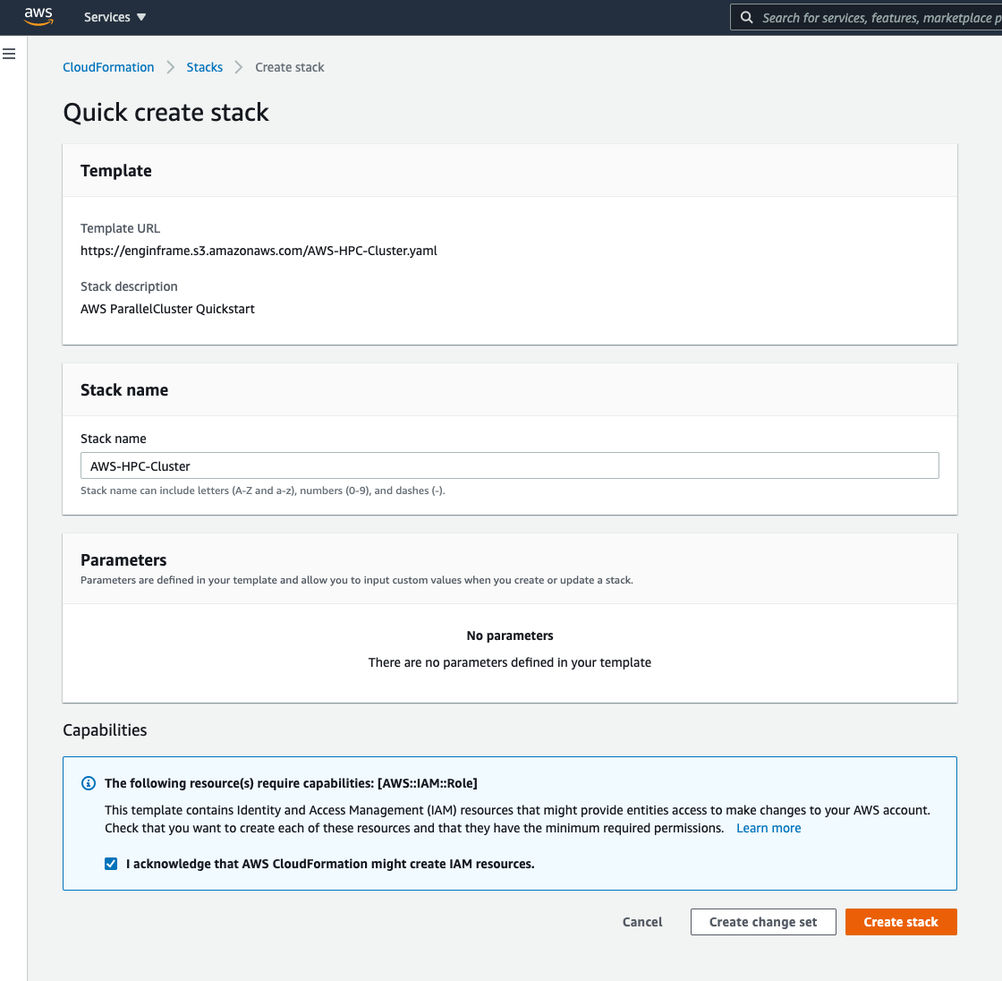
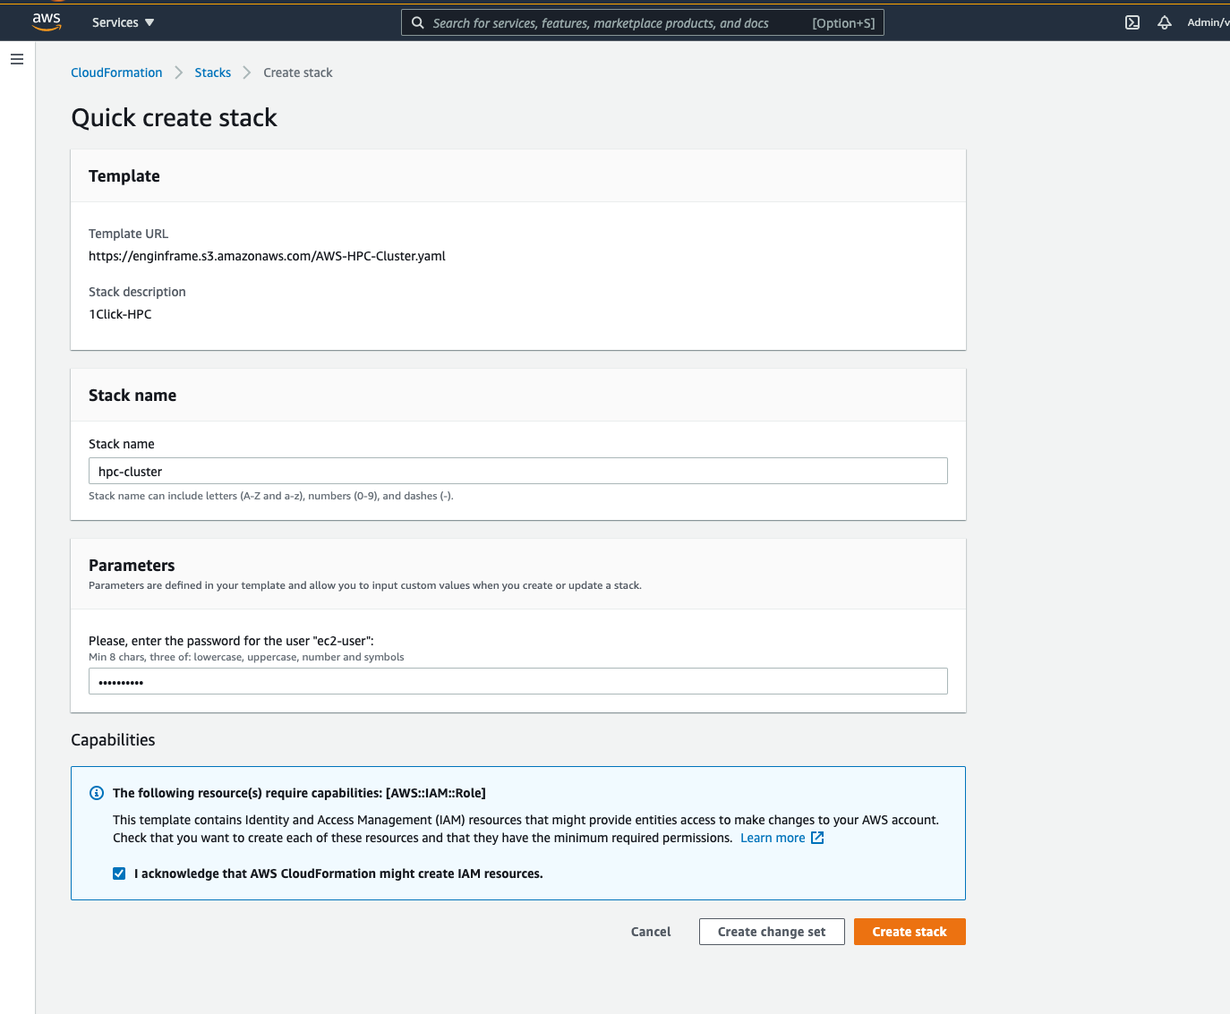
Clean up the docs.

diff --git a/docs/README.md b/docs/README.md
@@ -1,108 +1,19 @@
-# 1Click-HPC
-This repository gather some <a href=https://docs.aws.amazon.com/parallelcluster/latest/ug/what-is-aws-parallelcluster.html><b>ParallelCluster</b></a> post-install samples for common HPC-related operations.
-<br>Primary ParallelCluster [post.install](https://github.com/aws-samples/1click-hpc/blob/main/scripts/post.install.sh) sets the environment and launches secondary scripts according to their naming convention.
-<br>All those scripts are automatically downlaoded from thie [Git-Hub repo](https://github.com/aws-samples/1click-hpc) .
-<br>In case a deeper customization of the scripts is needed, the scripts can be stored in an S3 bucket. See more details in the Requirements section below.
-
-At the moment we are including:
-1. *install.ldap.server.master.sh*
-    <br>Script installing OpenLDAP server on the head node.
-2.  *install.ldap.client.master.sh*
-    <br>Script installing OpenLDAP client on the head node.
-3.  *install.ldap.client.compute.sh*
-    <br>Script installing OpenLDAP client on the compute nodes.
-4. *install.enginframe.master.sh*
-    <br>Script installing <a href="https://www.nice-software.com"><b>NICE EnginFrame</b></a> HPC portal on the head node.
-5. *install.dcv.broker.master.sh*
-    <br>Script installing <a href="https://docs.aws.amazon.com/dcv/latest/sm-admin/what-is-sm.html"><b>DCV Session Manager Broker</b></a> on the head node.
-6. *install.dcv.Slurm.master.sh*
-    <br>Alternative to the previous, this script enables support for DCV sessions using Slurm instead of the DCV Session Manager Broker.
-7. *install.dcv-server.compute.sh*
-    <br>Script Configuring <a href="https://aws.amazon.com/hpc/dcv/"><b>DCV Server</b></a> on compute nodes.
-8. *install.dcv-sm-agent.compute.sh*
-    <br>Script installing and configuring <a href="https://docs.aws.amazon.com/dcv/latest/sm-admin/agent.html"><b>DCV Session Manager Agent</b></a>
-9. *install.dcv.slurm.compute.sh*
-    <br>Alternative to the previous, this script enables support for DCV sessions using Slurm instead of the DCV Session Manager Agent.
-
-<details>
-<summary>Software and Services used (Click to expand)</summary>
-<b>AWS ParallelCluster</b> is an open source cluster management tool that simplifies deploying and managing HPC clusters with Amazon FSx for Lustre, EFA, a variety of job schedulers, and the MPI library of your choice. AWS ParallelCluster simplifies cluster orchestration on AWS so that HPC environments become easy-to-use even for if you’re new to the cloud. <br/>
-<br/>
-<b>NICE EnginFrame</b> is the leading grid-enabled application portal for user-friendly submission,control and monitoring of HPC jobs and interactive remote sessions.It includes sophisticated data management for all stages of HPC job lifetime and is integrated with most popular job schedulers and middleware tools to submit, monitor, and manage jobs.<br/>
-<br/>
-<b>NICE DCV</b>  is a remote visualization technology that enables users to securely connect to graphic-intensive 3D applications hosted on a remote, high-performance server. With NICE DCV, you can make a server's high-performance graphics processing capabilities available to multiple remote users by creating secure client sessions. <br/>
-<br/>
-<b>NICE DCV Session Manager</b> is set of two software packages (an Agent and a Broker) and an application programming interface (API) that makes it easy for developers and independent software vendors (ISVs) to build front-end applications that programmatically create and manage the lifecycle of NICE DCV sessions across a fleet of NICE DCV servers. <br/>
-</details>
-
-# 1-Click Deployment
-For Users who have no experience with AWS and no experience building an HPC Cluster, here an easy way to start.
-
-#### Step 1
-Click the link below corresponding to your preferred [AWS Region](https://aws.amazon.com/about-aws/global-infrastructure/regions_az/) .
-
-| Region       | Launch                                                                                                                                                                                                                                                                                                             | 
-|--------------|--------------------------------------------------------------------------------------------------------------------------------------------------------------------------------------------------------------------------------------------------------------------------------------------------------------------|
-| N. Virginia (us-east-1)   | [![Launch](https://samdengler.github.io/cloudformation-launch-stack-button-svg/images/us-east-1.svg)](https://console.aws.amazon.com/cloudformation/home?region=us-east-1#/stacks/quickcreate?templateUrl=https%3A%2F%2Fenginframe.s3.amazonaws.com%2FAWS-HPC-Cluster.yaml&stackName=hpc-cluster) |
-| Ohio (us-east-2)   | [![Launch](https://samdengler.github.io/cloudformation-launch-stack-button-svg/images/us-east-2.svg)](https://console.aws.amazon.com/cloudformation/home?region=us-east-2#/stacks/quickcreate?templateUrl=https%3A%2F%2Fenginframe.s3.amazonaws.com%2FAWS-HPC-Cluster.yaml&stackName=hpc-cluster) |
-| N. California (us-west-1)   | [![Launch](https://samdengler.github.io/cloudformation-launch-stack-button-svg/images/us-west-1.svg)](https://console.aws.amazon.com/cloudformation/home?region=us-west-1#/stacks/quickcreate?templateUrl=https%3A%2F%2Fenginframe.s3.amazonaws.com%2FAWS-HPC-Cluster.yaml&stackName=hpc-cluster) |
-| Oregon (us-west-2)   | [![Launch](https://samdengler.github.io/cloudformation-launch-stack-button-svg/images/us-west-2.svg)](https://console.aws.amazon.com/cloudformation/home?region=us-west-2#/stacks/quickcreate?templateUrl=https%3A%2F%2Fenginframe.s3.amazonaws.com%2FAWS-HPC-Cluster.yaml&stackName=hpc-cluster) |
-| Frankfurt (eu-central-1)   | [![Launch](https://samdengler.github.io/cloudformation-launch-stack-button-svg/images/eu-central-1.svg)](https://console.aws.amazon.com/cloudformation/home?region=eu-central-1#/stacks/quickcreate?templateUrl=https%3A%2F%2Fenginframe.s3.amazonaws.com%2FAWS-HPC-Cluster.yaml&stackName=hpc-cluster) |
-| Ireland (eu-west-1)   | [![Launch](https://samdengler.github.io/cloudformation-launch-stack-button-svg/images/eu-west-1.svg)](https://console.aws.amazon.com/cloudformation/home?region=eu-west-1#/stacks/quickcreate?templateUrl=https%3A%2F%2Fenginframe.s3.amazonaws.com%2FAWS-HPC-Cluster.yaml&stackName=hpc-cluster) |
-| Stockholm (eu-north-1)   | [![Launch](https://samdengler.github.io/cloudformation-launch-stack-button-svg/images/eu-north-1.svg)](https://console.aws.amazon.com/cloudformation/home?region=eu-north-1#/stacks/quickcreate?templateUrl=https%3A%2F%2Fenginframe.s3.amazonaws.com%2FAWS-HPC-Cluster.yaml&stackName=hpc-cluster) |
-| Tokio (ap-northeast-1)   | [![Launch](https://samdengler.github.io/cloudformation-launch-stack-button-svg/images/ap-northeast-1.svg)](https://console.aws.amazon.com/cloudformation/home?region=ap-northeast-1#/stacks/quickcreate?templateUrl=https%3A%2F%2Fenginframe.s3.amazonaws.com%2FAWS-HPC-Cluster.yaml&stackName=hpc-cluster) |
-| Hong Kong (ap-east-1)   | [![Launch](https://samdengler.github.io/cloudformation-launch-stack-button-svg/images/ap-east-1.svg)](https://console.aws.amazon.com/cloudformation/home?region=ap-east-1#/stacks/quickcreate?templateUrl=https%3A%2F%2Fenginframe.s3.amazonaws.com%2FAWS-HPC-Cluster.yaml&stackName=hpc-cluster) |
-
-
-
-#### Step 2
-1. Just change the "Stack Name" as you like (please do not user capital letters) 
-2. Check the checkbox to acknowledge the IAM resources creations.
-3. Click the "Create Stack" botton.
-</br>
-
-![Step2](docs/step2.png?raw=true "Step 2")
-
-#### Step 3
-1. Wait until all the resources are created 
-2. Click on the "Stack Name"
-</br>
-
-![Step3](docs/step3.png?raw=true "Step 3")
-
-#### Step 4
-1. Go to the "outputs" tab
-2. Click the "EnginFrameURL" to access your HPC Clsuter using the EnginFrame portal.
-3. Alternatively, Click the "Cloud9URL" if you wish to connect to your Cloud9 Instance and then ssh into your Cluster form there.
-</br>
-
-![Step4](docs/step4.png?raw=true "Step 4")
-
-#### Step 5
-If you haven't customize the EnginFrame configuration, you can use the default Username and Password.
-```Username: ec2-user```
-</br>
-```Password: Change_this!```
-</br>
-<blockquote id='PfT9CA19ub2'><b>Note:</b> Please make sure you the default password right after the first login.</blockquote>
-</br>
-
-![Step5](docs/step5.png?raw=true "Step 5")
-
 # QuickStart
-Create a new cluster using your configuration file and just add the following parameters, everything will be installed and configured automatically.<br/>
+In case you do not want to use our 1Click-HPC Cloudformation template, but you still want to build your cluster with all the components and modules available in thie reporitory, you can follow the instruction below to configure your ParallelCluster configuration file. 
+You can create a new cluster using your existing configuration file and just add the following parameters, everything will be installed and configured automatically.<br/>
 If this is your first approach to AWS ParallelCluster, either go back to the section above or follow all the steps of our [Workshop](https://www.hpcworkshops.com/03-hpc-aws-parallelcluster-workshop.html) and include the following configuration:
 ```ini
 [cluster yourcluster]
 ...
 post_install = https://raw.githubusercontent.com/aws-samples/1click-hpc/main/scripts/post.install.sh
-post_install_args = "10.install.enginframe.master.sh 20.install.dcv.slurm.master.sh 25.install.dcv-server.compute.sh 35.install.dcv.slurm.compute.sh"
+post_install_args = "05.install.ldap.server.master.sh 06.install.ldap.client.compute.sh 06.install.ldap.client.master.sh 10.install.enginframe.master.sh 11.install.ldap.enginframe.master.sh 20.install.dcv.slurm.master.sh 25.install.dcv-server.compute.sh 35.install.dcv.slurm.compute.sh"
+extra_json = {"post_install":{"enginframe":{"ef_admin_pass":"Put_Your_Password_HERE"}}}
 tags = {"EnginFrame" : "true"}
 ...
 ```
 <blockquote id='PfT9CA19ub2'><b>Note:</b> You need to specify a custom Security Group (that allows inbound connection to the port 8443) defined as <b>`additional_sg`</b> parameter in the `[VPC]` section of your AWS ParallelCluster config file.</blockquote>
 
-# (Optional) Custom QuickStart
+# (Optional) QuickStart parameters customization
 In addition to the Quickstart deployment, there are a few parameters that you can optionally define to customize the components installed. <br/>
 These parameters are defined as part of the <b> `extra_json` </b> [parameter](https://docs.aws.amazon.com/parallelcluster/latest/ug/cluster-definition.html#extra-json) in the [cluster section](https://docs.aws.amazon.com/parallelcluster/latest/ug/cluster-definition.html) of the AWS ParallelCluster configuration file.
 If the <b> `extra_json` </b> is not specified, all the components will be installed using the default values. <br/> 
@@ -152,11 +63,20 @@ tr -d '\n' < your_extra.json
 { "post_install": { "enginframe": { "nice_root": "/fsx/nice", "ef_admin": "ec2-user", "ef_conf_root": "/fsx/nice/enginframe/conf", "ef_data_root": "/fsx/nice/enginframe/data", "ef_spooler": "/fsx/nice/enginframe/spoolers", "ef_repository": "/fsx/nice/enginframe/repository", "ef_admin_pass": "Change_this!" }, "dcvsm": { "agent_broker_port": 8445, "broker_ca": "/home/ec2-user/dcvsmbroker_ca.pem", "client_broker_port": 8446 }, "dcv": { "dcv_queue_keyword": "dcv" }}}
 ```
 
-# (Optional) Script customization
+# (Optional) Launch script customization
 An additional way to further customize the installation and configuration of your components is by downlaoding the scripts locally, modify them, and put them back onto S3.<br/>
-In this case, your AWS ParallelCluster configuration files have the following paramteres:
+```bash
+export S3_BUCKET=<YOUR_S3_BUCKET>
+
+aws s3 cp --recursive 1click-hpc/scripts/         s3://$S3_BUCKET/scripts/
+aws s3 cp --recursive 1click-hpc/packages/        s3://$S3_BUCKET/packages/
+aws s3 cp --recursive 1click-hpc/parallelcluster/ s3://$S3_BUCKET/parallelcluster/
+aws s3 cp --recursive 1click-hpc/enginframe/      s3://$S3_BUCKET/enginframe/
+```
+
+In this case, your AWS ParallelCluster configuration file has the following parameteres:
 ```ini
-post_install = s3://<your_bucket>/scripts/post.install.sh
+post_install = s3://<YOUR_S3_BUCKET>/scripts/post.install.sh
 post_install_args = "01.install.enginframe.master.sh 03.install.dcv.slurm.master.sh 04.install.dcv-server.compute.sh 06.install.dcv.slurm.compute.sh"
 ```
 
@@ -175,78 +95,8 @@ To perform a successful installation of EnginFrame and DCV Sesssion Manager brok
 <br/></li><li id='PfT9CAvkZ0P' class=''><b>ParallelCluster configuration including <code>post_install</code> and <code>post_install_args</code> </b>as mentioned above and described later with more details
 <br/></li><li id='PfT9CASJBtH' class=''><b>(optionally) EnginFrame and DCV Session Manager packages</b>, available online from <a href="https://download.enginframe.com/">https://download.enginframe.com</a>. Having them in the bucket avoids the need for outgoing internet access for your ParallelCluster master to download them. In this article I’ll instead have them copied into my target S3 bucket. My scripts will copy them from S3 to the master node.
 <br/></li></ul></div><blockquote id='PfT9CA2OdPe'><b>Note:</b> neither EnginFrame 2020 or DCV Session Manager Broker need a license if running on EC2 instances. For more details please refer to their documentation.</blockquote>
-<h2 id='PfT9CAAjFfa'>Step 1. Review and customize post-install scripts</h2>
-GitHub code repository for this article contains 3 main scripts:<br/>
-<div style="" class="" data-section-style='6'><ul id='PfT9CAcv9OY'><li id='PfT9CAqZmEr' class='' value='1'><i><b>post.install.sh </b></i><br>Primary post-install script, preparing the environment and launching secondary scripts in alphanumerical order
-<br/></li><li id='PfT9CAcXiVn' class=''><b><i>01.install.enginframe.master.sh</i></b><br>Secondary script installing EnginFrame<br>Most installation parameters are up to <b><i>efinstall.config</i></b> script
-<br/></li><li id='PfT9CAvmQMT' class=''><b><i>02.install.dcv.broker.master.sh</i></b><br>Secondary script installing DCV Session Manager Broker
-<br/></li></ul></div>Secondary scripts follow this naming convention: they <b>start with a number that will set their execution order</b>, then they <b>describe their purpose</b>, and finally <b>define the node type in which they should be executed</b> (master or compute) as a last argument, just before the extension, e.g.:<br/>
-<pre id='PfT9CA3RKNQ'><b><span bgcolor="#d7f7d4" style="background-color:#d7f7d4">01</span>.<span bgcolor="#ffcdcc" style="background-color:#ffcdcc">install</span><span bgcolor="#ffcdcc" style="background-color:#ffcdcc">.enginframe</span>.<span bgcolor="#ffe600" style="background-color:#ffe600">master</span>.<span bgcolor="#9ee9fa" style="background-color:#9ee9fa">sh</span></b><br><span bgcolor="#d7f7d4" style="background-color:#d7f7d4">|</span>  <span bgcolor="#ffcdcc" style="background-color:#ffcdcc">|</span>                  <span bgcolor="#ffe600" style="background-color:#ffe600">|</span>      <span bgcolor="#9ee9fa" style="background-color:#9ee9fa">|</span>     <br><span bgcolor="#d7f7d4" style="background-color:#d7f7d4">|</span>  <span bgcolor="#ffcdcc" style="background-color:#ffcdcc">|</span>                  <span bgcolor="#ffe600" style="background-color:#ffe600">|</span>      <span bgcolor="#9ee9fa" style="background-color:#9ee9fa">file extension</span><br><span bgcolor="#d7f7d4" style="background-color:#d7f7d4">|</span>  <span bgcolor="#ffcdcc" style="background-color:#ffcdcc">purpose</span>            <code><span bgcolor="#ffe600" style="background-color:#ffe600">|</span></code><br><span bgcolor="#d7f7d4" style="background-color:#d7f7d4">|</span>                     <span bgcolor="#ffe600" style="background-color:#ffe600">to be run on master </span><span bgcolor="#ffe600" style="background-color:#ffe600">or compute nodes</span><br><span bgcolor="#d7f7d4" style="background-color:#d7f7d4">execution order</span></pre>
-While main post-install script <i>post.install.sh</i> just sets environment variables and launches secondary scripts, you might want to check the secondary ones: <i>01.install.enginframe.master.sh</i> installing EnginFrame and <i>02.install.dcv.broker.master.sh </i>installing DCV Session Manager Broker.<br/>
-<br/>
-Crucial parameters are set in ParallelCluster configuration file, and some EnginFrame settings are defined into <i>efinstall.config</i> file. All these files should be checked to reflect what you have in mind.<br/>
-<br/>
-You can also add further custom scripts, in the same folder, following the naming convention stated above. An example could be installing an HPC application locally on a compute node, or in the master shared folder.<br/>
-<br/>
-Each script sources <b><i>/etc/parallelcluster/cfnconfig</i></b> to get the required information about current cluster settings, AWS resources involved and node type. Specifically, cfnconfig defines <br/>
-<div style="" data-section-style='5' class=""><ul id='PfT9CAvyMeE'><li id='PfT9CADVG1H' class='' value='1'><code>cfn_node_type=<b>MasterServer</b></code> if current node is the master node 
-<br/></li><li id='PfT9CA7EIAI' class=''><code>cfn_node_type=<b>ComputeFleet</b></code> if current node is a compute node
-<br/></li></ul></div><blockquote id='PfT9CAB7egs'><b>Note:</b> More details on each scripts are provided in <b>Post-install scripts details</b> section following the <b>Walktrough</b>.</blockquote>
-<h2 id='PfT9CA9XRzC'>Step 2. <b>Prepare your S3 bucket</b> </h2>
-I create an S3 Bucket e.g. <code>mys3bucket</code>, with the following structure and contents in a prefix of choice (Packages names and version numbers may vary):<br/>
-<pre id='PfT9CAWCFW4'>packages<br>├── NICE-GPG-KEY.conf<br>├── efinstall.config<br>├── enginframe-2020.0-r58.jar<br>└── nice-dcv-session-manager-broker-2020.2.78-1.el7.noarch.rpm<br>scripts<br>├── 01.install.enginframe.master.sh<br>├── 02.install.dcv.broker.master.sh<br>└── post.install.sh</pre>
-<h2 id='PfT9CAo7SeV'><b>Step 3. Modify or create your ParallelCluster configuration file</b></h2>
-As mentioned, the only settings required by my scripts are the following in the <code><b>[cluster]</b></code> section:  <code>post_install</code>, <code>post_install_args</code> and <code>s3_read_resource</code>:<br/>
-<pre id='PfT9CAWhRVy'>post_install = s3://&lt;bucket&gt;/&lt;bucket key&gt;/scripts/post.install.sh<br>post_install_args = '&lt;bucket&gt; &lt;bucket key&gt; &lt;efadmin password (optional)&gt;'<br>s3_read_resource = arn:aws:s3:::&lt;bucket&gt;/&lt;bucket key&gt;/*</pre>
-The <i>post.install.sh</i> main script is set as the <code>post_install</code> option value, with its S3 full path, and provided arguments:<br/>
-a) bucket name <br/>
-b) bucket folder/key location<br/>
-c) efadmin user (primary EnginFrame administrator) password<br/>
-all separated by space. All post install arguments must be enclosed in a <b>single pair</b> of single quotes, as in the example code.<br/>
-Finally, the <code>s3_read_resource</code> option grants the master access to the same S3 location to download secondary scripts: first one installing EnginFrame <i>(01.install.enginframe.master.sh) </i>and second one installing DCV Session Manager broker <i>(02.install.dcv.broker.master.sh).</i><br/>
-<br/>
-<blockquote id='PfT9CAHIvuh'><b>Note:</b> you may wish to associate a custom role to the ParallelCluster master instead of using the <code>s3_read_resource</code> option.</blockquote>
-<br/>
-<blockquote id='PfT9CARo4zK'><b>Note: </b>ParallelCluster documentation suggests to use double quotes for <code>post_install_args</code>. This is not working with the last version of parallelcluster available when writing this article, so I’m using single quotes. This is under fixing and will probably change in near future.</blockquote>
-<br/>
-A configuration file sample is provided under the <i>parallelcuster</i> folder of the github repository.<br/>
-<h2 id='PfT9CASKaeI'>Step 4. Create ParallelCluster</h2>
-You can now start ParallelCluster creation with your preferred invocation command, e.g.:<br/>
-<pre id='PfT9CA7tiTl'>pcluster create --norollback --config parallelcluster/config.sample PC291</pre>
-<blockquote id='PfT9CAnwMy7'><b>Hint: </b>when testing it’s probably better to disable rollback like in the above command line: this will allow you to connect via ssh to the Master instance to diagnose problems if something with the post-install scripts went wrong.</blockquote>
-<h2 id='PfT9CAEO4Mv'>Cleaning up</h2>
-To avoid incurring future charges, delete idle ParallelCluster instances via its delete command:<br/>
-<pre id='PfT9CAqIN4q'><code>pcluster </code><code>delete</code><code> --config parallelcluster/config.sample PC291</code></pre>
-<h1 id='PfT9CAhGMZ6'>Post-install scripts details</h1>
-In this section I’ll list some more details on the scripts logic. This could be a starting point in customizing, evolving or adding more secondary scripts to the solution. For example, you might want to add a further script to automatically install an HPC application into ParallelCluster master node.<br/>
-<h2 id='PfT9CAO6eGz'>Main post.install.sh</h2>
-Post-install script <b><i>post.install.sh</i></b> goes through the following steps:<br/>
-<div style="" class="" data-section-style='6'><ul id='PfT9CAKRjQV'><li id='PfT9CA9y111' class='' value='1'>Gets post-install arguments, and exports them as environment variables, in particular:<br><code>export S3Bucket="$2"<br>export S3Key="$3"<br>export efadminPassword="$4"</code>
-<br/></li><li id='PfT9CAOmgnZ' class=''>Downloads the entire scripts subfolder from the S3 bucket into master node <i>/tmp/scripts</i> folder
-<br/></li><li id='PfT9CAJLPMI' class=''>Runs every script in <i>/tmp/scripts</i> in alphanumerical order
-<br/></li></ul></div><h2 id='PfT9CAnh9Qk'>EnginFrame</h2>
-Provided script <b><i>01.install.enginframe.sh</i></b> performs the following steps:<br/>
-<div style="" class="" data-section-style='6'><ul id='PfT9CAn3gVJ'><li id='PfT9CAuw7jM' class='' value='1'>Installs <i>openjdk</i> (required for EnginFrame)
-<br/></li><li id='PfT9CA0ZuUe' class=''>Downloads the packages subfolder of the bucket into <i>/tmp/packages.</i> So it gets EnginFrame installer and also any other secondary script in advance
-<br/></li><li id='PfT9CAV3XE1' class=''>Checks if EnginFrame installer and <i>efinstall.config</i> are available under <i>/tmp/packages</i>
-<br/></li><li id='PfT9CAFyXyA' class=''>Inline modifies its <i>efinstall.config</i> copy to install EnginFrame under ParallelCluster shared folder <code>cfn_shared_dir</code>
-<br/></li><li id='PfT9CAcxPCI' class=''>Adds efadmin and efnobody local users, again required by EnginFrame. Sets efadmin password if present. If not present you should set it later, for example by connecting via ssh to the master node
-<br/></li><li id='PfT9CADPT3i' class=''>Installs EnginFrame in unattended mode into the ParallelCluster shared folder
-<br/></li><li id='PfT9CAC6Z9W' class=''>Enables and starts EnginFrame service
-<br/></li></ul></div><h2 id='PfT9CALuVCp'>DCV Session Manager Broker</h2>
-Provided script <b><i>02.install.dcv.broker.master.sh</i></b> performs the following steps:<br/>
-<div style="" class="" data-section-style='6'><ul id='PfT9CAeeBLr'><li id='PfT9CA3PqcJ' class='' value='1'>Downloads the packages sobfolder of the bucket into <i>/tmp/packages</i>
-<br/></li><li id='PfT9CAT5zwj' class=''>Checks if NICE-GPG-KEY and DCV Session Manager Broker package are available under <i>/tmp/packages</i>
-<br/></li><li id='PfT9CASxotS' class=''>Imports NICE-GPG-KEY and installs DCV Session Manager Broker rpm
-<br/></li><li id='PfT9CAeq7Sk' class=''>Modifies broker configuration to switch port to 8446 since 8443 is used by EnginFrame 
-<br/></li><li id='PfT9CACCXQw' class=''>Enables and starts DCV Session Manager Broker service
-<br/></li><li id='PfT9CA3Tnxp' class=''>Copies DCV Session Manager Broker certificate under efadmin’s home
-<br/></li></ul></div>Optionally, if EnginFrame is installed, it:<br/>
-<div style="" class="" data-section-style='6'><ul id='PfT9CA7h8V4'><li id='PfT9CAEkoP5' class='' value='1'>Registers EnginFrame as API client
-<br/></li><li id='PfT9CAQz5b5' class=''>Saves API client credentials into EnginFrame configuration
-<br/></li><li id='PfT9CAQeIg1' class=''>Adds DCV Session Manager Broker certificate into Java keystore
-<br/></li><li id='PfT9CAijDzb' class=''>Restarts EnginFrame
-<br/></li></ul></div><h1 id='PfT9CANUilh'>Troubleshooting</h1>
+
+</li></ul></div><h1 id='PfT9CANUilh'>Troubleshooting</h1>
 Detailed output log is available on the master node, in:<br/>
 <div style="" data-section-style='5' class=""><ul id='PfT9CAgo7RL'><li id='PfT9CACrSe3' class='' value='1'>/var/log/cfn-init.log
 <br/></li><li id='PfT9CACiH3u' class=''>/var/log/cfn-init-cmd.log

diff --git a/README.md b/README.md
@@ -32,6 +32,7 @@ Click the link below corresponding to your preferred [AWS Region](https://aws.am
 
 ## Step 2
 1. Just change the "Stack Name" as you like.
+2. Enter the password for the Admin user "ec2-user":
 2. Check the checkbox to acknowledge the IAM resources creations.
 3. Click the "Create Stack" botton.
 </br>
@@ -39,27 +40,27 @@ Click the link below corresponding to your preferred [AWS Region](https://aws.am
 ![Step2](docs/step2.png?raw=true "Step 2")
 
 ## Step 3
-1. Wait until all the resources are created 
-2. Click on the "Stack Name"
+1. Click on the "Stack Name" to monitor the cluster creation steps.
+2. Wait until all the resources are created 
 </br>
 
 ![Step3](docs/step3.png?raw=true "Step 3")
 
 ## Step 4
-1. Go to the "outputs" tab
+1. When the cluster creation is completed, go to the "outputs" tab
 2. Click the "EnginFrameURL" to access your HPC Cluster using the EnginFrame portal.
-3. Alternatively, Click the "Cloud9URL" if you wish to connect to your Cloud9 Instance and then ssh into your Cluster form there.
+3. Alternatively, Click the "Cloud9URL" if you wish to connect to your Cloud9 Instance and then ssh into your cluster form there.
 </br>
 
 ![Step4](docs/step4.png?raw=true "Step 4")
 
 ## Step 5
-If you haven't customize the EnginFrame configuration, you can use the default Username and Password.
+If you haven't customize the EnginFrame configuration, you can use the default Username and the password you chose.
 ```Username: ec2-user```
 </br>
-```Password: Change_this!```
+```Password: *********```
 </br>
-<blockquote id='PfT9CA19ub2'><b>Note:</b> Please make sure you change the default password right after the first login.</blockquote>
+<blockquote id='PfT9CA19ub2'><b>Note:</b> Please make sure you change the password right after the first login.</blockquote>
 </br>
 
 ![Step5](docs/step5.png?raw=true "Step 5")
